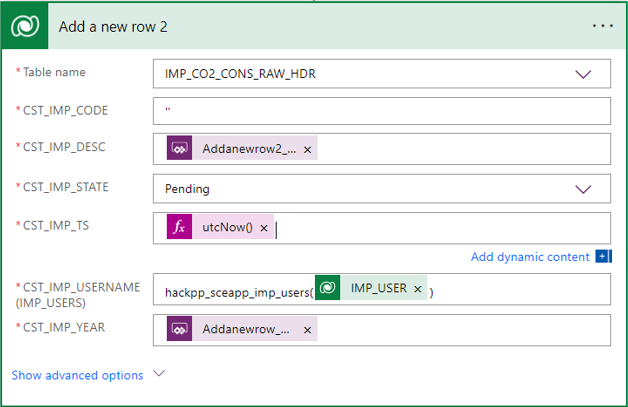
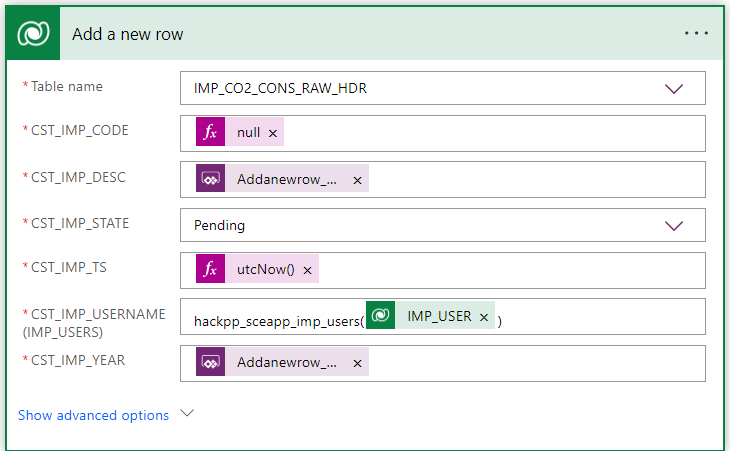
bugfix

Changed region(s): [[0.0, 0.0, 1.0, 1.0]]

diff --git a/04_ImplementWizardStep1Part2.md b/04_ImplementWizardStep1Part2.md
@@ -85,7 +85,7 @@ Expand the `Add new row` action again to set now the remaining fields. For setti
 Follow the instructions in the table for the rest:
 |Field           |Value                                         |
 |----------------|----------------------------------------------|
-| CST_IMP_CODE   | Set `''` to indicate an empty string     |
+| CST_IMP_CODE   | Set the field to the special expression `null` as you did it for `utcNow`     |
 | CST_IMP_YEAR   | Use the way for adding a parameter as before |
 | CST_IMP_DESC   | Use the way for adding a parameter as before |
 | CST_IMP_STATE  | Fixed value for Pending                      |
@@ -116,25 +116,44 @@ Click on the power automate icon and click the button `Add flow`. Enter the name
 
 **Submit Button)**
 
-Enter the following formula in the property `OnSelected`: 
+Our submit is different for edit and new. In the edit case we can use the standard `SubmitForm` to persist the changes. We just add a confirmation message for the user. For new we have run our flow and store returned value for later processing in a local variable. The user is also informed with an additional message. Enter the following formula in the property `OnSelected` that is doing all that: 
 ```
 If(locImpMode = "New", 
    UpdateContext(
 	{locParaUserName: DataCardValue3.Selected.CST_USERNAME,
-	 locParaYear: DataCardValue3.Text,
-	 locParaDesc: DataCardValue3.Text});
+	 locParaYear: 999,
+	 locParaDesc: DataCardValue7.Value});
    UpdateContext(
 	 {locNewImpCode: TestFlowInp.Run(
-		locParaUserName,
-		locParaYear,
-		locParaDesc
-		).returnedval });
-   Notify(locNewImpCode & " has been created."), 
-   SubmitForm(<TODOName of form>);
-   Notify(LastSubmit().CST_IMP_CODE & " has been updated."))
+		locParaUserName, 
+		locParaYear, 
+		locParaDesc).returnedval });
+   Notify("Import " & locNewImpCode & " has been created."), 
+   SubmitForm(Form1);
+   Notify("Import " & Form1.LastSubmit.CST_IMP_CODE & " has been updated."))
 ```
+The important takeaways from that code:
+* Multiple expressions
 
-TODO explain this code
+  No special block identifiers as curl brackets in C are required to run multiple commands. Commands are just separated by semikolon.
+
+* If expression
+
+  The generic form of the if is `if(<test cond>, <expressions to run if true>, <expressions to run if false>). in our case the expressions for the if and the true case are just a bit longer.
+
+* UpdateContext
+
+  The expressions inside is compareable to define local variables as in standard programming languages. Variables are declared and initialised in JSON like notation inside the curly brackets. The variables are only visible in the parent screen.
+
+* Calling the flow
+
+  Running a flow with parameters requires the run command as follows: `<flowname>.Run(<parameters separated by comma>)`. Referencing the return value is done by `.<name of return parameter>`.
+
+* Notify: The expression shows an information message. The operator `&` concatenates strings.
+* LastSubmit: Refers to the stored data. Unfortunately it only works for edit only.
+* DataCardValue3XXX
+
+  They represent the form controls that hold our data. Note that the way you access the data differs depending on the type.
 
 # 3. Testing changes
 

diff --git a/05_AdjustConsolidatedCO2Consumption.md b/05_AdjustConsolidatedCO2Consumption.md
@@ -1,0 +1,46 @@
+# 1. Introduction to Flows
+
+You should now have Completed the Following things:
+
+1. Importing Implemented Artefacts
+2. Implement Wizard Step 1 (Part1)
+2. Implement Wizard Step 2 (Part2)
+
+Next you will adjust the standard layout according to the requirements of the customer.
+
+# 2. Implementation Task
+
+## Introduction
+
+Custom pages come with a gallery control that allows you to display lists. The standard layout is as shown below. You have some flexibility to change the layout per entry but standard functinality such as filtering per column needs to be added manually.
+
+<br><img src="./images/appr_list_def_layout.png" /><br>
+
+The final goal is the approach we already implemented for showing the existing imports.
+
+<br><img src="./images/appr_list_def_goal.png" /><br>
+
+As you can see we have now a tabular list layout and an extra header that allows us to sort the list according to a certain column. The column after we sort is indicated by the a different background color in the header.
+
+## Apply tabular layout
+
+To apply the layout you first have to understand better the way how the designer displays the control. The screenshot below illustrates import points:
+
+<br><img src="./images/appr_list_ctrls_tree.png" /><br>
+
+Relevant for the applying the layout is not a built-in property in the right-hand side. Important to understand is the template mechanism of the first row. The layout of the first row is applied to all others. The controls below the gallery show the controls of the first row. The rectangle serves as container for all controls on it. That means:
+* Removing existing controls
+
+  2To drop controls just deletem them from the container. In our case we don't need the image.
+
+* Adding additional controls
+
+  Just add them as you did it before. Only make sure that the container control is selected. You can achieve this by clicking near the borders of the first item in the list.
+
+* Adjust existing controls
+
+  The standard layout is achieved by just placing the labels per column vertically. To achieve a tabular layout just drag the controls side by side horizontally.
+
+Implement with these guidelines the same tabular layout as shown in the second picture above. The next chapter is about the extra header.
+
+## Add header row

diff --git a/planned/README.md b/planned/README.md
@@ -2,11 +2,7 @@
 
 ## Focus
 
-This repo contains the documentation for the Power Apps hackathon. The application to complete will be a **model driven app with Custom Pages**. 
-
-warning:: Note this documentation is a preliminary state where not all features of the application are already imlemented!
-
-The business scenario of our example app is the import of CO2 consumption figures from a local file. They will have to approved before showing up in a consolidated table. A wizard will guide the importing user.
+This repo contains the documentation for the Power Apps hackathon. The application to complete will be a **model driven app with Custom Pages**. The business scenario of our example app is the import of CO2 consumption figures from a local file. They will have to approved before showing up in a consolidated table. A wizard will guide the importing user.
 
 The hackathon includes the following technologies:
 * Power Apps: Model driven apps with custom pages
@@ -51,11 +47,11 @@ The following tasks will expect you:
    After that task the first step of the wizard won't trigger any changes within the data model.
 
 4. Implement Wizard Step Create/ Update (Part2) [here](/04_ImplementWizardStep1Part2.md)
+
    
    In that step you add the persistence in the data model. Reason for the involving an embedded flow are limitations of the used controls.
 
-5. **Optional advanced extra task:** Adjust consolidated list of CO2 consumption [here](/05_AdjustConsolidatedCO2Consumption.md)
-
+5. **Optional advanced extra task:** Implement approval flow [here](/05_ImplementApprovalFlow.md)
 
 :white_check_mark: We also created a fully implemented application including data model located in the branch [Solution](https://github.com/DevOps-Gilde/Hackathon_PP_ModelDrivenApp_CstPages_Doc/tree/Solution) of your forked repository that covers all tasks. You only have to import it to your environment.
 If at any Point you need assistance nevertheless do not hesitate to ask. We are here to Help you.
